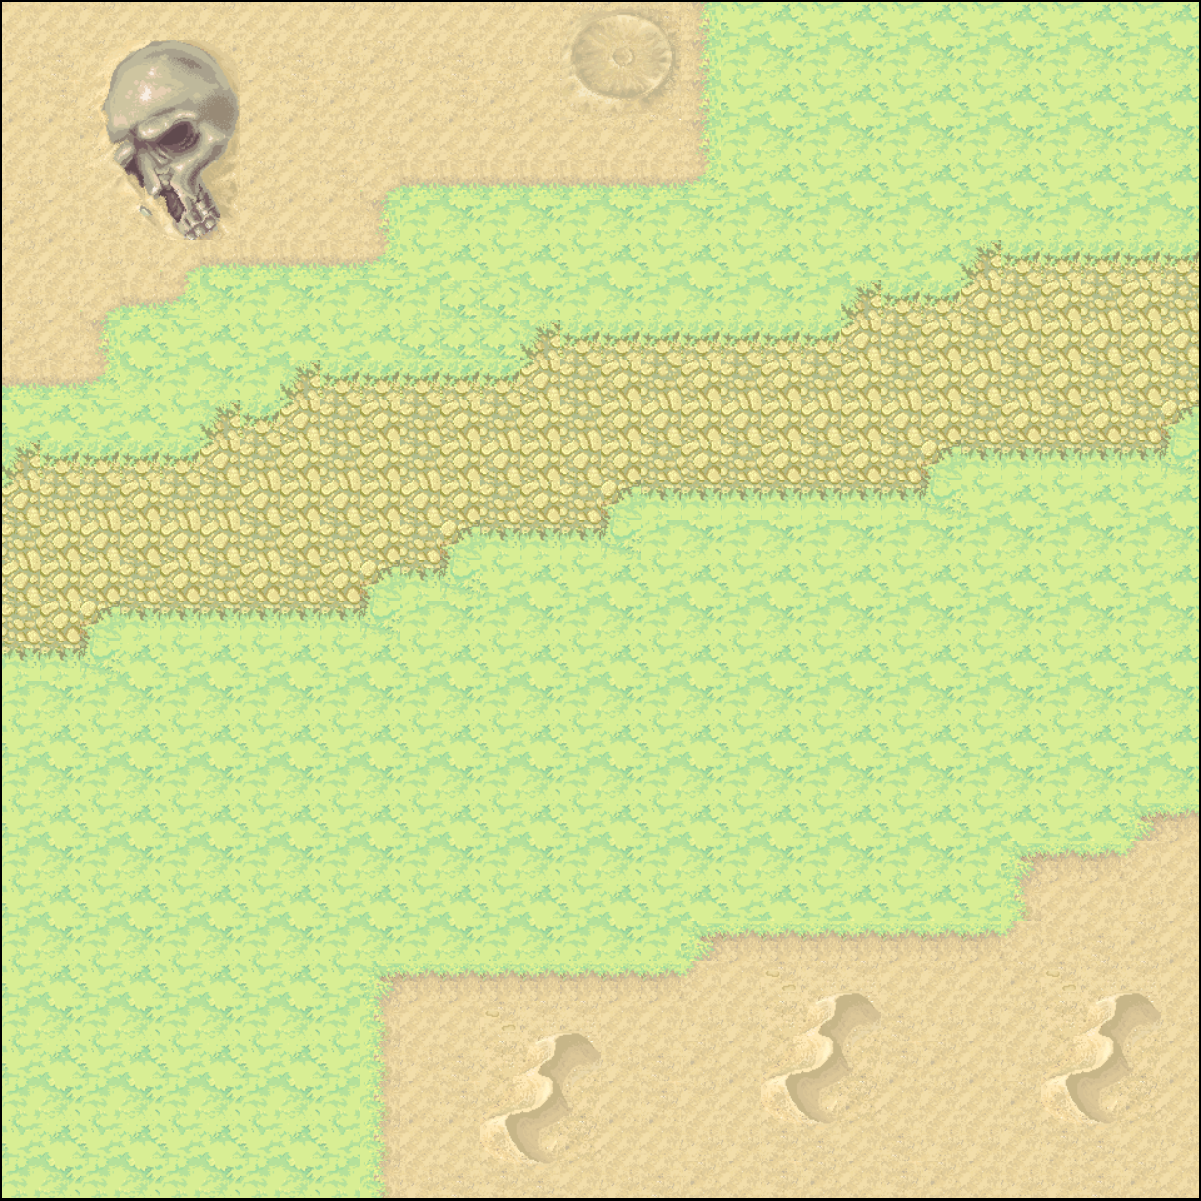
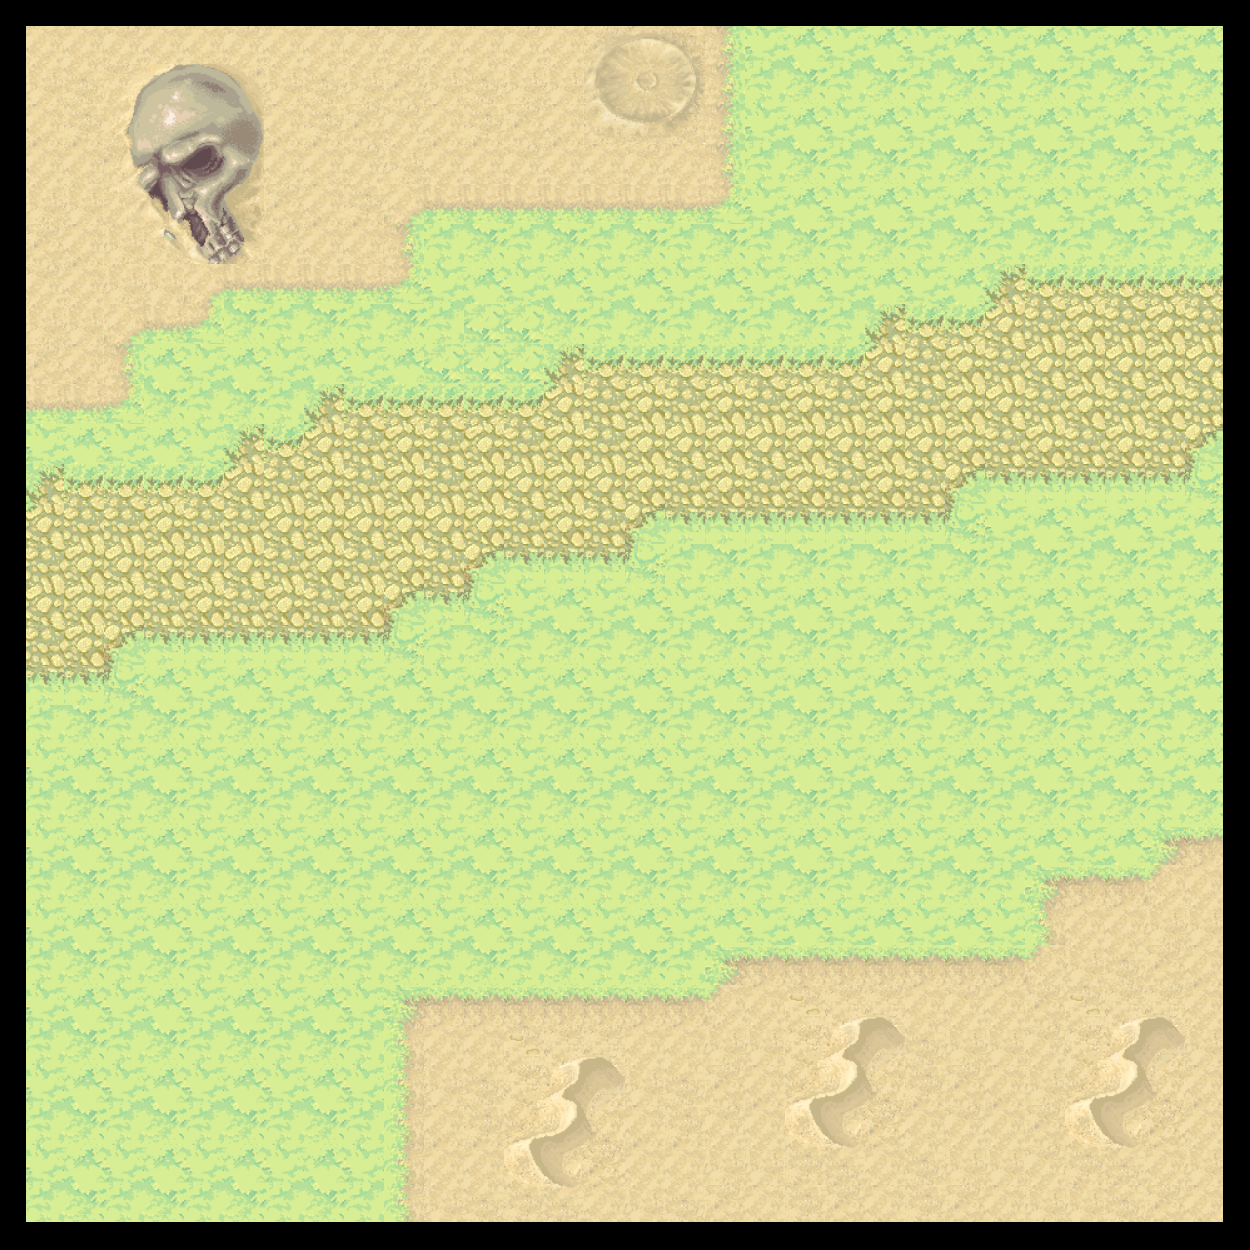
Edit: Fixed multiplayer Edit: Added larger border to map Edit: Cleaned up code

diff --git a/src/client/game/Game.java b/src/client/game/Game.java
@@ -5,7 +5,6 @@ import client.game.player.Direction;
 import client.game.player.Player;
 import client.game.player.PlayerSprite;
 import client.interfaces.Updateble;
-import com.sun.glass.ui.Screen;
 import javafx.animation.AnimationTimer;
 import javafx.scene.Scene;
 import javafx.scene.control.Alert;
@@ -23,8 +22,6 @@ import java.awt.geom.Point2D;
 import java.awt.image.BufferedImage;
 import java.util.ArrayList;
 import java.util.Arrays;
-import java.util.Timer;
-import java.util.TimerTask;
 
 public class Game implements Updateble {
     private BorderPane borderPane;
@@ -164,13 +161,11 @@ public class Game implements Updateble {
         if (this.player != null) {
             int playerX = 0;
             int playerY = 0;
-            int speed = 1;
-            double frameSpeed = 1;
+            double speed = 1 * (deltaTime * 100);
 
             //Set different speed when player is sprinting.
             if (this.gameInputManager.getKeysPressed().contains(KeyCode.SHIFT)) {
-                speed = 2;
-                frameSpeed = 1.5;
+                speed = 2 * (deltaTime * 100);
             }
 
             //Check direction controls.
@@ -194,30 +189,26 @@ public class Game implements Updateble {
             movePlayer(playerX, playerY, deltaTime);
 
             this.timerValue += deltaTime;
-            //System.out.println(this.timerValue);
 
-            if (this.timerValue > 0.5) {
+            if (this.timerValue > 0.2) {
                 this.connection.sendObject(this.player.getPosition());
+                this.connection.sendObject(this.player.getDirection());
                 this.timerValue = 0;
             }
-
-//            this.connection.sendObject(this.player.getPosition());
-
-//            this.connection.sendObject(this.player.getDirection());
         }
     }
 
     public void movePlayer(int playerX, int playerY, double deltaTime) {
-        if (this.player.getPosition().getX() > (this.mapPicture.getWidth() / 2.0)) {
-            this.player.setPosition(new Point2D.Double((this.mapPicture.getWidth() / 2.0) - 5, this.player.getPosition().getY()));
-        } else if (this.player.getPosition().getX() < -(this.mapPicture.getWidth() / 2.0)) {
-            this.player.setPosition(new Point2D.Double((-this.mapPicture.getWidth() / 2.0) + 5, this.player.getPosition().getY()));
+        if (this.player.getPosition().getX() + 25 > (this.mapPicture.getWidth() / 2.0)) { //Right
+            this.player.setPosition(new Point2D.Double((this.mapPicture.getWidth() / 2.0) - 27, this.player.getPosition().getY()));
+        } else if (this.player.getPosition().getX() - 25 < -(this.mapPicture.getWidth() / 2.0)) { //Left
+            this.player.setPosition(new Point2D.Double((-this.mapPicture.getWidth() / 2.0) + 27, this.player.getPosition().getY()));
         }
 
-        if (this.player.getPosition().getY() > (this.mapPicture.getHeight() / 2.0)) {
-            this.player.setPosition(new Point2D.Double(this.player.getPosition().getX(), (this.mapPicture.getHeight() / 2.0) - 5));
-        } else if (this.player.getPosition().getY() < -(this.mapPicture.getHeight() / 2.0)) {
-            this.player.setPosition(new Point2D.Double(this.player.getPosition().getX(), -(this.mapPicture.getHeight() / 2.0) + 5));
+        if (this.player.getPosition().getY() + 25 > (this.mapPicture.getHeight() / 2.0)) { //Bottom
+            this.player.setPosition(new Point2D.Double(this.player.getPosition().getX(), (this.mapPicture.getHeight() / 2.0) - 27));
+        } else if (this.player.getPosition().getY() - 40 < -(this.mapPicture.getHeight() / 2.0)) { //Top
+            this.player.setPosition(new Point2D.Double(this.player.getPosition().getX(), -(this.mapPicture.getHeight() / 2.0) + 42));
         }
 
         if (playerX != 0 || playerY != 0) {
@@ -244,7 +235,7 @@ public class Game implements Updateble {
 
         for (Player lPlayer : list) {
             for (Player oPlayer : old) {
-                if (lPlayer.equals(oPlayer)) {
+                if (lPlayer.equals(oPlayer) && !lPlayer.equals(this.player)) {
                     oPlayer.setPosition(lPlayer.getPosition());
                     oPlayer.setDirection(lPlayer.getDirection());
                 }
